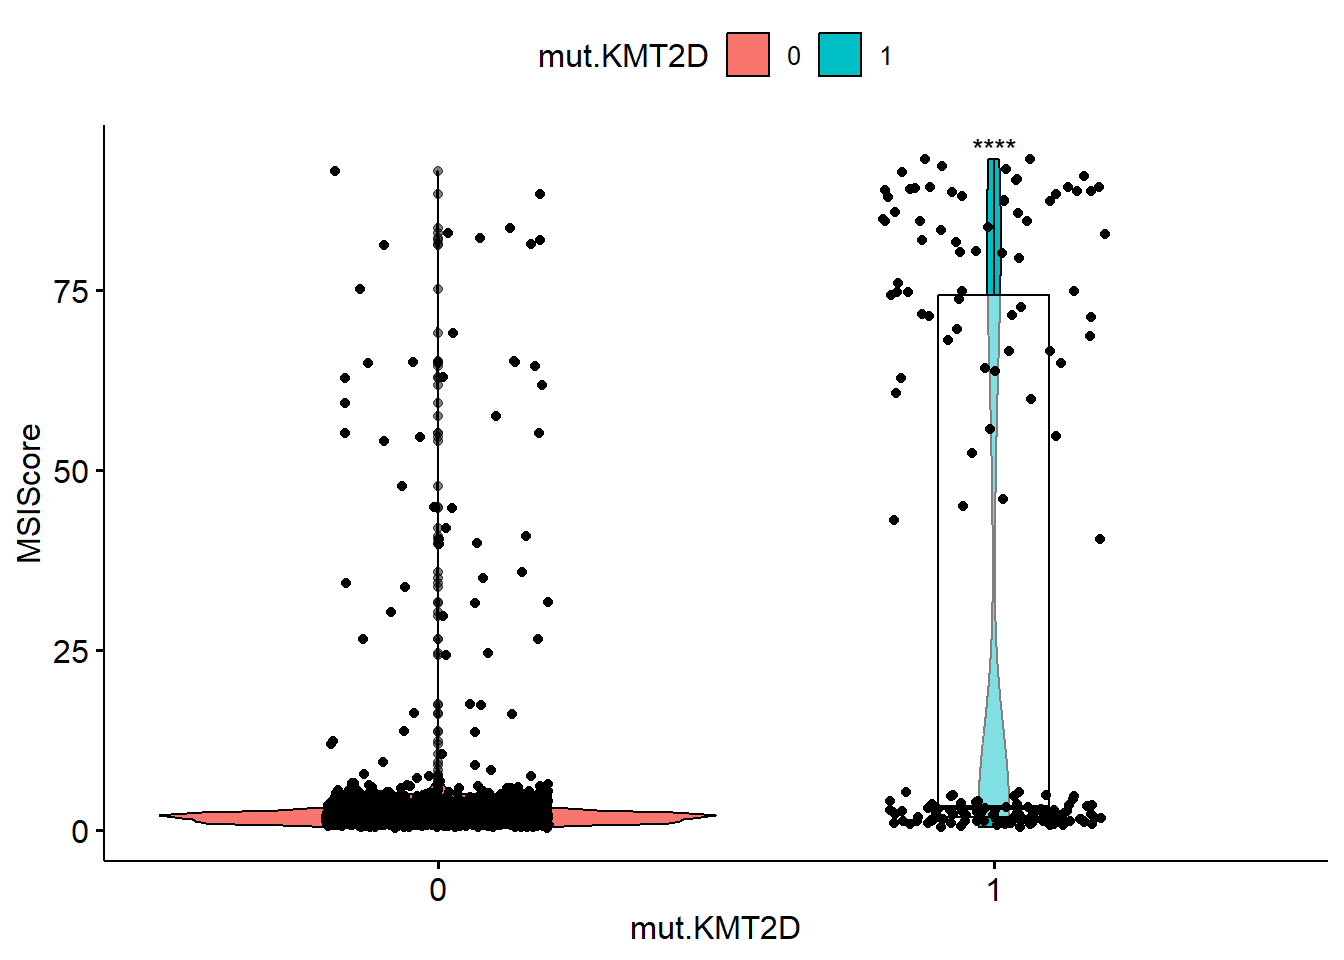
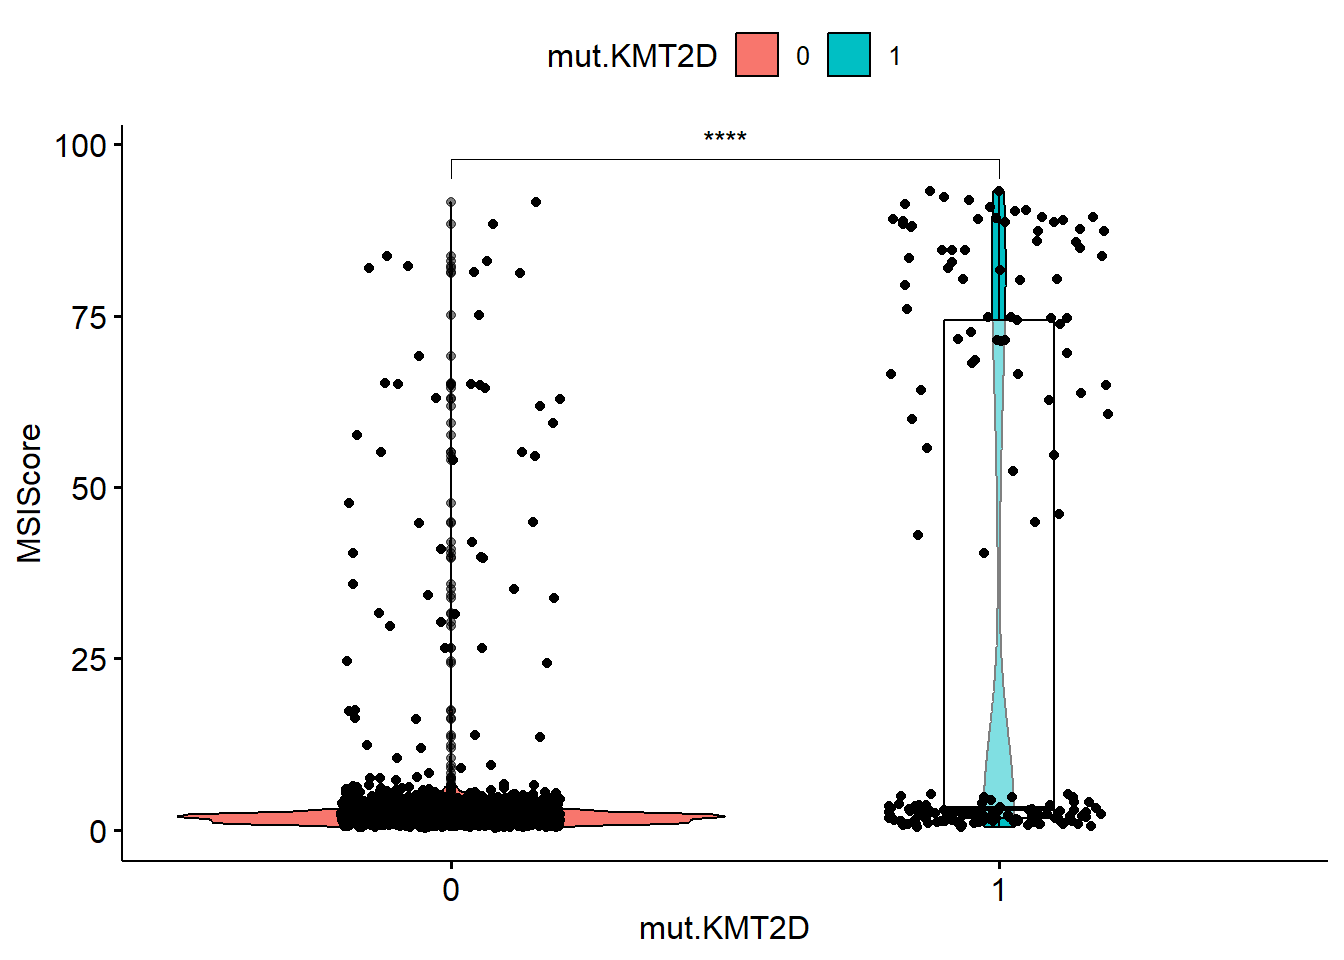
Built site for gh-pages

diff --git a/posts/8_Tidyverse_violin_plots/index.html b/posts/8_Tidyverse_violin_plots/index.html
@@ -432,8 +432,9 @@ pre > code.sourceCode > span > a:first-child::before { text-decoration: underlin
 <span id="cb4-4"><a href="#cb4-4" aria-hidden="true" tabindex="-1"></a>        <span class="at">x=</span><span class="st">"mut.KMT2D"</span>, <span class="at">y=</span><span class="st">"MSIScore"</span>, </span>
 <span id="cb4-5"><a href="#cb4-5" aria-hidden="true" tabindex="-1"></a>        <span class="at">add=</span><span class="fu">c</span>(<span class="st">"boxplot"</span>), <span class="at">fill=</span><span class="st">"mut.KMT2D"</span>, </span>
 <span id="cb4-6"><a href="#cb4-6" aria-hidden="true" tabindex="-1"></a>        <span class="at">add.params =</span> <span class="fu">list</span>(<span class="at">fill =</span> <span class="st">"white"</span>, <span class="at">alpha=</span><span class="fl">0.5</span>), <span class="at">trim=</span>T) <span class="sc">+</span></span>
-<span id="cb4-7"><a href="#cb4-7" aria-hidden="true" tabindex="-1"></a>        <span class="fu">stat_compare_means</span>(<span class="at">ref.group=</span><span class="st">"0"</span>, <span class="at">label =</span> <span class="st">"p.signif"</span>, <span class="at">show.legend=</span>F )  <span class="sc">+</span></span>
-<span id="cb4-8"><a href="#cb4-8" aria-hidden="true" tabindex="-1"></a>        <span class="fu">geom_jitter</span>( <span class="at">width=</span><span class="fl">0.2</span>, <span class="at">height=</span><span class="dv">0</span>)</span></code><button title="Copy to Clipboard" class="code-copy-button"><i class="bi"></i></button></pre></div>
+<span id="cb4-7"><a href="#cb4-7" aria-hidden="true" tabindex="-1"></a>        <span class="fu">stat_compare_means</span>(<span class="at">comparisons =</span> <span class="fu">list</span>(<span class="fu">c</span>(<span class="st">"0"</span>,<span class="st">"1"</span>)), </span>
+<span id="cb4-8"><a href="#cb4-8" aria-hidden="true" tabindex="-1"></a>        <span class="at">label =</span> <span class="st">"p.signif"</span>, <span class="at">show.legend=</span>F )  <span class="sc">+</span></span>
+<span id="cb4-9"><a href="#cb4-9" aria-hidden="true" tabindex="-1"></a>        <span class="fu">geom_jitter</span>( <span class="at">width=</span><span class="fl">0.2</span>, <span class="at">height=</span><span class="dv">0</span>)</span></code><button title="Copy to Clipboard" class="code-copy-button"><i class="bi"></i></button></pre></div>
 <div class="cell-output-display">
 <div>
 <figure class="figure">

diff --git a/index.html b/index.html
@@ -390,7 +390,7 @@ window.Quarto = {
 
 <div class="quarto-listing quarto-listing-container-default" id="listing-listing">
 <div class="list quarto-listing-default">
-<div class="quarto-post image-right" data-index="0" data-categories="VGlkeXZlcnNlJTJDRGF0YSUyMFNjaWVuY2UlMkNSJTIwUHJvZ3JhbW1pbmc=" data-listing-date-sort="1750219200000" data-listing-file-modified-sort="1750301917354" data-listing-date-modified-sort="NaN" data-listing-reading-time-sort="3" data-listing-word-count-sort="420">
+<div class="quarto-post image-right" data-index="0" data-categories="VGlkeXZlcnNlJTJDRGF0YSUyMFNjaWVuY2UlMkNSJTIwUHJvZ3JhbW1pbmc=" data-listing-date-sort="1750219200000" data-listing-file-modified-sort="1750303067784" data-listing-date-modified-sort="NaN" data-listing-reading-time-sort="3" data-listing-word-count-sort="430">
 <div class="thumbnail"><a href="./posts/8_Tidyverse_violin_plots/index.html" class="no-external">
 
 <p class="card-img-top"><img src="posts\8_Tidyverse_violin_plots\index_files\figure-html\unnamed-chunk-4-1.png"  class="thumbnail-image card-img"/></p>
